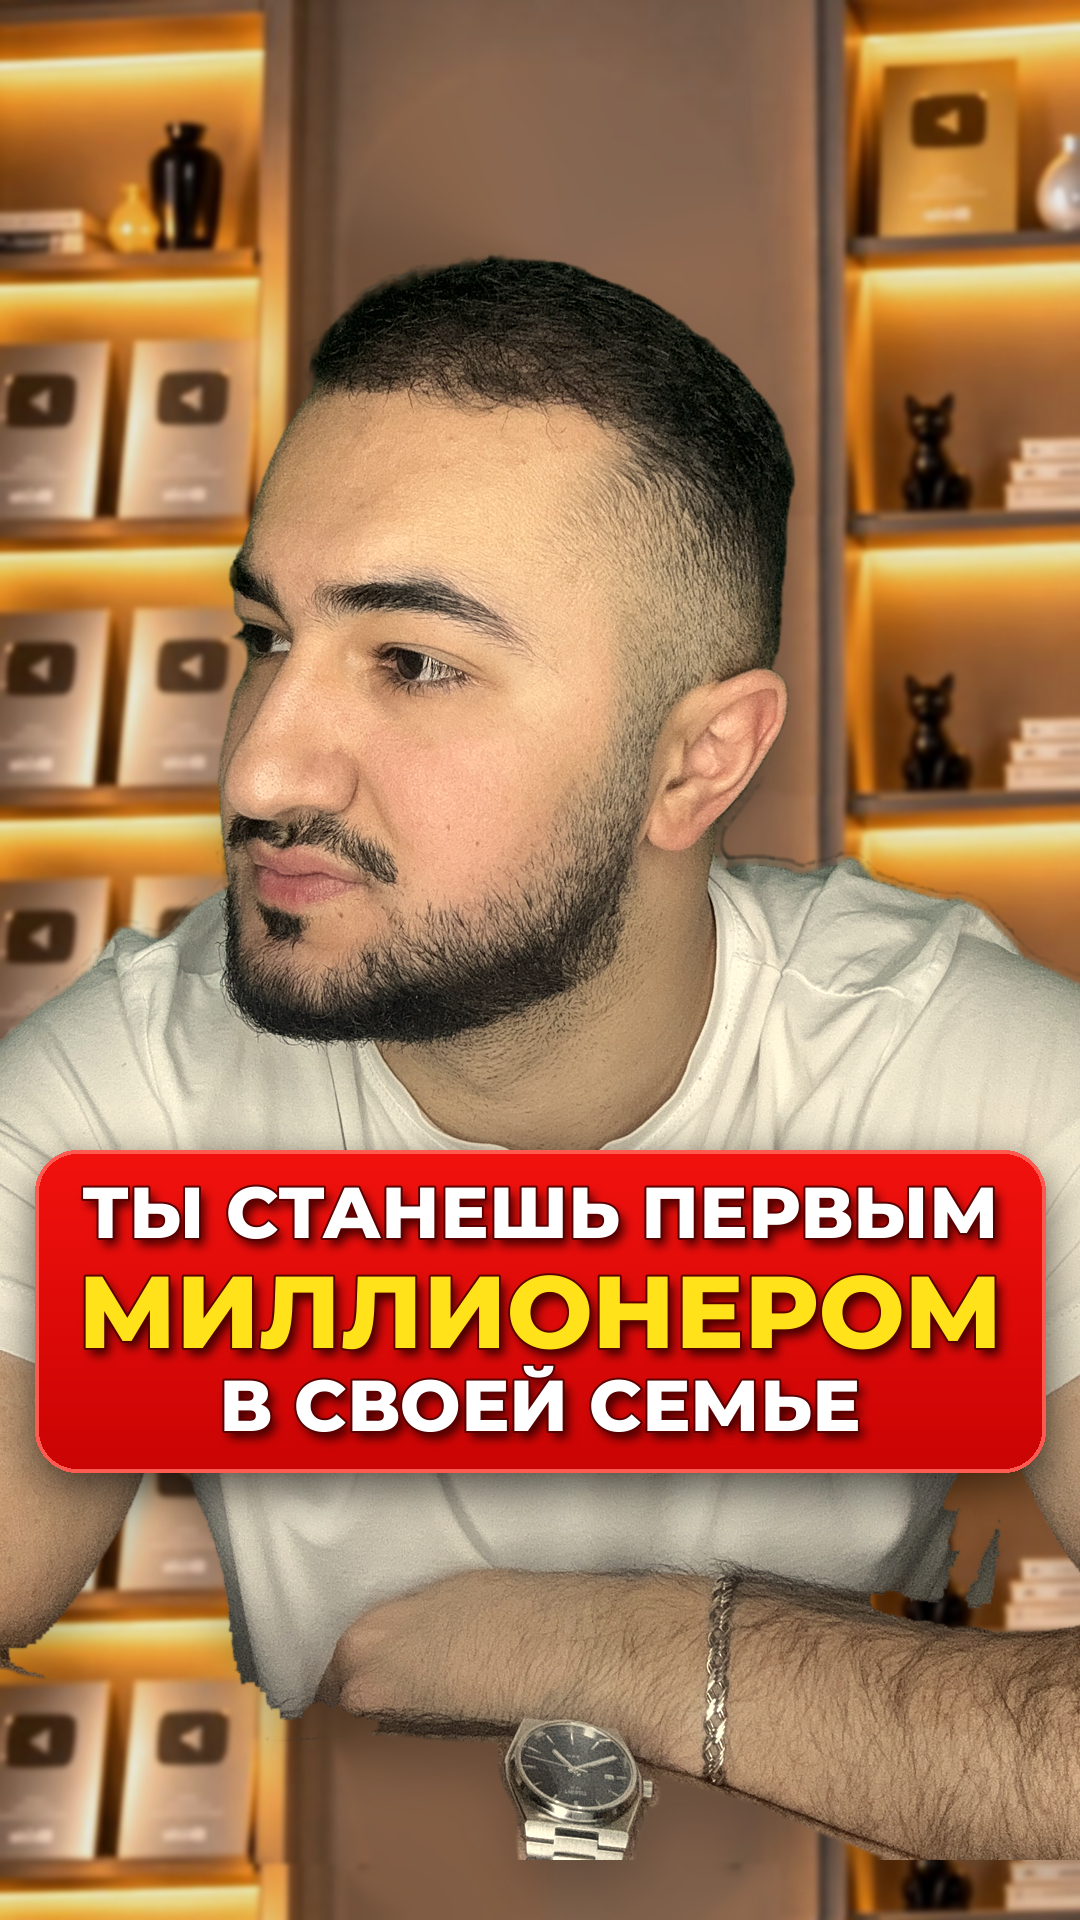
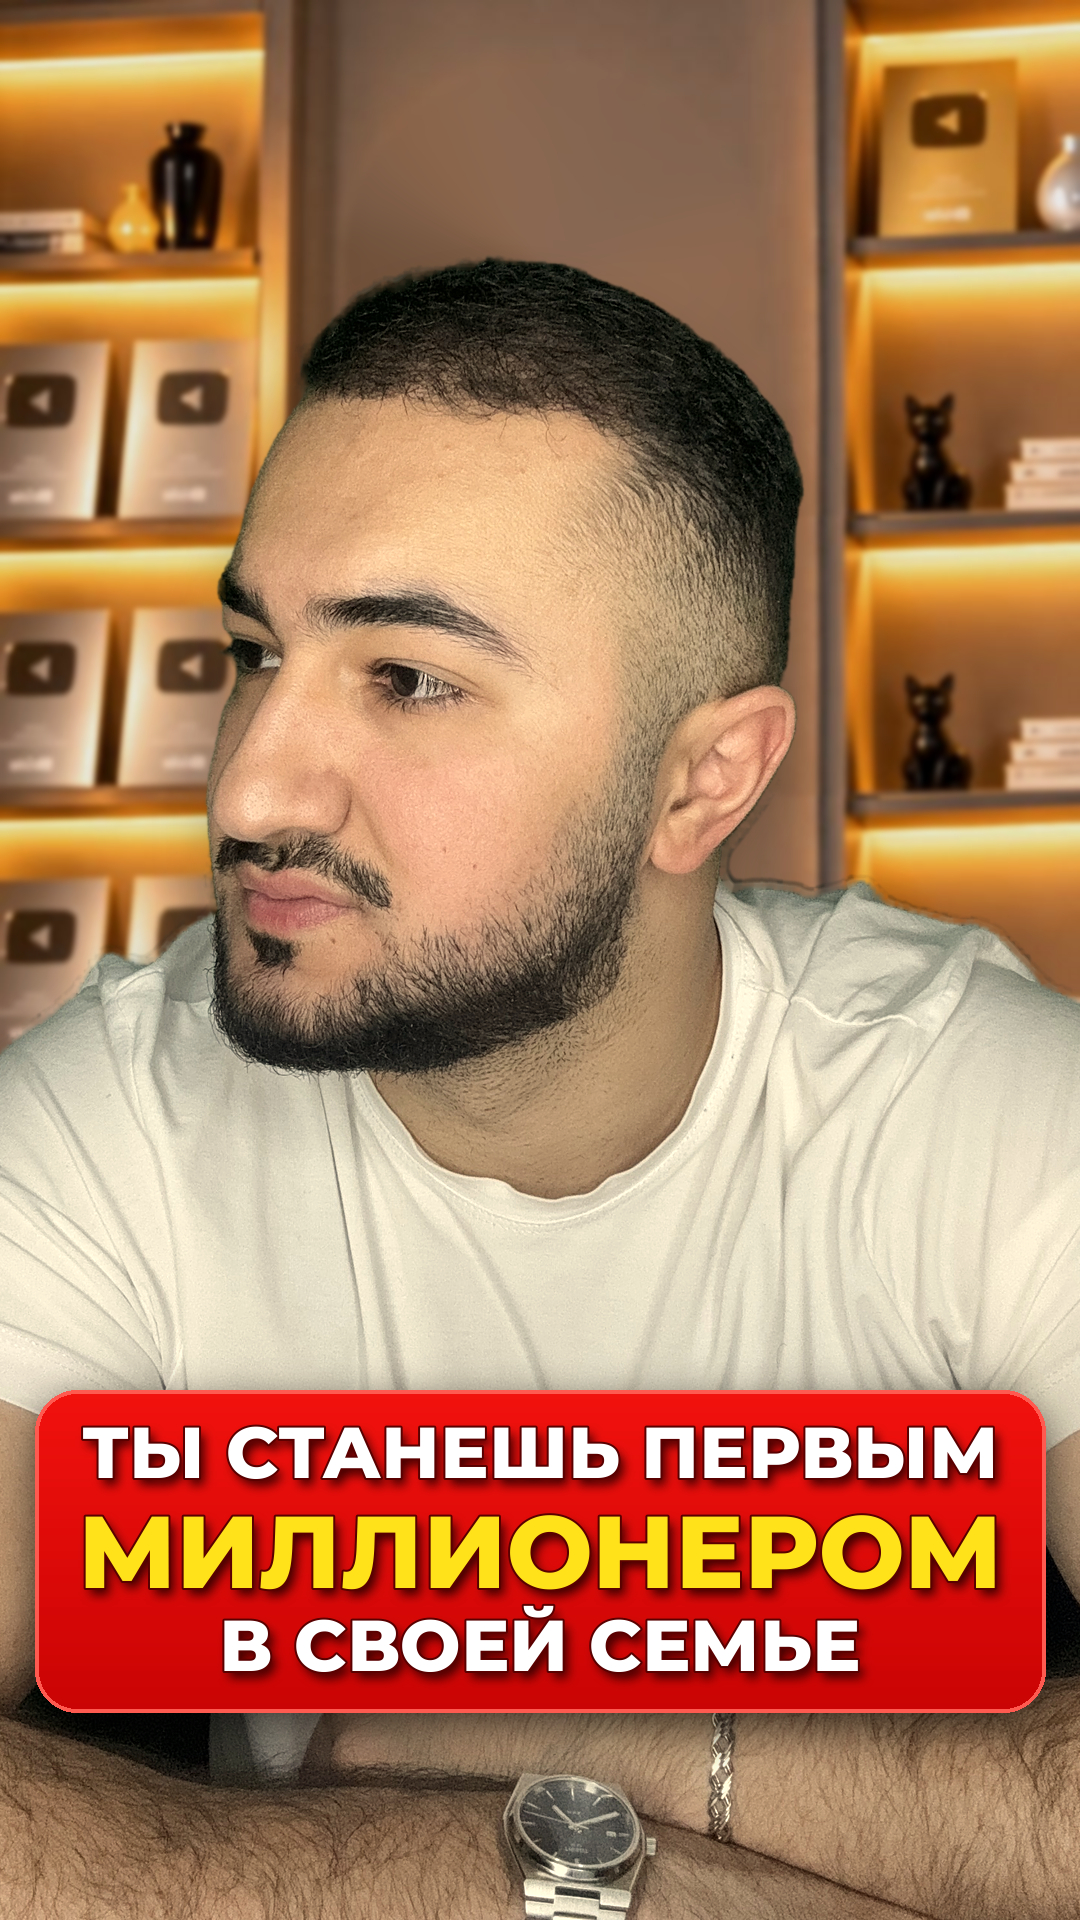
Обложка 04: исправлены руки (низ кадра без вырезания), плашка ниже
Claude-Session: https://claude.ai/code/session_017hf3L4YGHDVPqsx2nE8ns4

diff --git a/scripts/cutout.py b/scripts/cutout.py
@@ -18,16 +18,12 @@ alpha = np.clip(alpha * np.clip(seg * 1.5, 0, 1), 0, 1)
 # убрать мелкие дыры/точки
 alpha = cv2.morphologyEx(alpha, cv2.MORPH_OPEN, np.ones((3, 3), np.uint8))
 alpha = np.clip((alpha - 0.3) / 0.7, 0, 1)  # срезать дымку над плечами
-# тёмный не-зелёный фон (стул/ткань) у краёв кадра в нижней части — убрать
-Hh, Ww = alpha.shape
-dark = ((f.max(-1) < 55) & (alpha > 0)).astype(np.uint8)
-dark[: int(Hh * 0.55)] = 0
-n, lab, st, _ = cv2.connectedComponentsWithStats(dark, 8)
-for i in range(1, n):
-    x, y, w, h, area = st[i]
-    cxr = (x + w / 2) / Ww
-    if area > 3000 and (x == 0 or x + w >= Ww or y + h >= Hh or cxr < 0.3 or cxr > 0.7):
-        alpha[cv2.dilate((lab == i).astype(np.uint8), np.ones((9, 9), np.uint8)) > 0] = 0
+# низ кадра (руки лежат на всю ширину) — оставить целиком, без вырезания
+LOW = float(sys.argv[3]) if len(sys.argv) > 3 else 1.0
+if LOW < 1.0:
+    Hh = alpha.shape[0]; ys = np.arange(Hh)[:, None]
+    w_low = np.clip((ys - Hh * LOW) / (Hh * 0.02), 0, 1)
+    alpha = np.maximum(alpha, np.broadcast_to(w_low, alpha.shape))
 # цвет кромки: всё, что не уверенно-внутри, перекрашиваем из соседей изнутри
 inside = (alpha > 0.97).astype(np.uint8)
 band = ((alpha > 0.01) & (inside == 0)).astype(np.uint8)

diff --git a/scripts/cover_04.py b/scripts/cover_04.py
@@ -7,7 +7,7 @@ from cover import W, H, WHITE, YELLOW, FONT, plate, text_line
 
 D = os.path.join(os.path.dirname(__file__), '..', 'обложки_2026-11-27')
 person_p, out = sys.argv[1], sys.argv[2]
-Hp, dx, dy = (int(v) for v in sys.argv[3:6])
+Hp, dx, dy, y0 = (int(v) for v in sys.argv[3:7])
 
 c = Image.open(f'{D}/слои/фон_студия.png').convert('RGB').filter(ImageFilter.GaussianBlur(2.2))
 c = ImageEnhance.Brightness(c).enhance(0.92).convert('RGBA')
@@ -30,7 +30,6 @@ def fit(text, maxw, start):
     for s in range(start, 30, -2):
         if d.textlength(text, font=ImageFont.truetype(FONT, s)) <= maxw: return s
 
-y0 = 1150
 s1, s2, s3 = fit('ТЫ СТАНЕШЬ ПЕРВЫМ', 930, 110), fit('МИЛЛИОНЕРОМ', 940, 160), fit('В СВОЕЙ СЕМЬЕ', 930, 110)
 s1 = s3 = min(s1, s3)
 y1 = int(y0 + 18 + s1 * 1.12 + s2 * 1.1 + s3 * 1.25 + 22)
